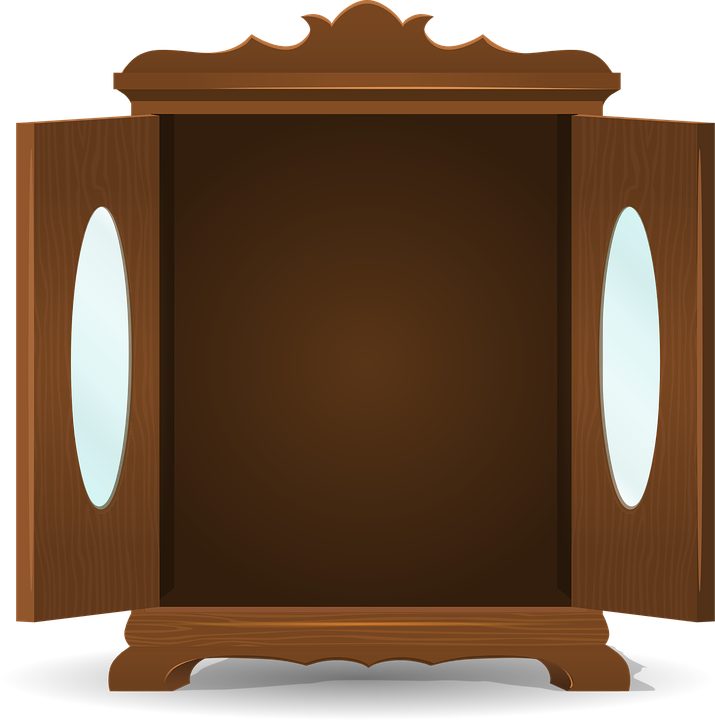
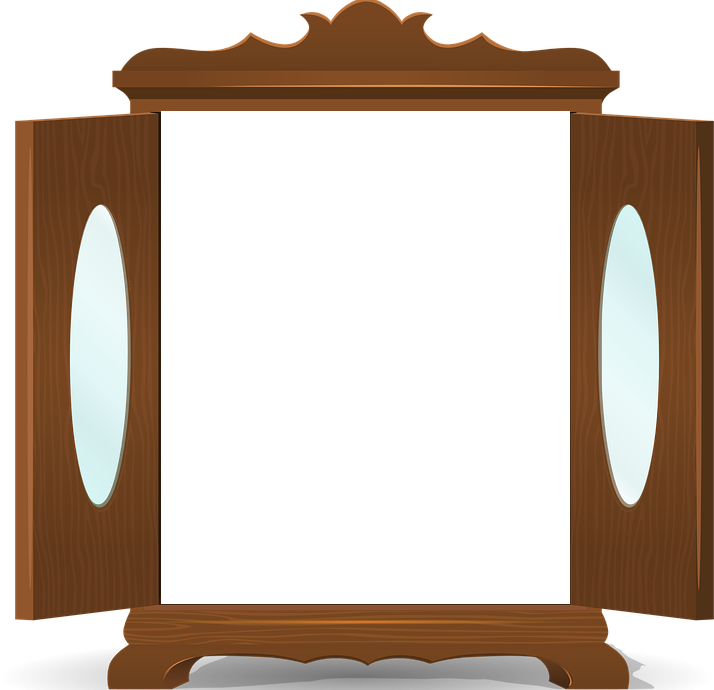
images

diff --git a/src/components/Game.js b/src/components/Game.js
@@ -6,10 +6,10 @@ import grogu from "../images/yoda.jpg";
 import dado_juego from "../images/dado_pres.png";
 import galleta_azul from "../images/galleta.jpg";
 import huevo_blanco from "../images/huevo.jpg";
-import rana_verde from "../images/rana.jpg";
-import vasija from "../images/vasija.jpg";
+import rana_verde from "../images/rana.png";
+import vasija from "../images/vasija.png";
 import App from "./App";
-import armario from "../images/armario.png";
+import armario from "../images/armario2.png";
 
 const Game = () => {
   /////////////////////////////////////////VARIABLES DE ESTADO/////////////////////////////////////////////////////////////////////////////////

diff --git a/src/styles/core/mixins.scss b/src/styles/core/mixins.scss
@@ -18,7 +18,7 @@
   margin-top: 300px;
 }
 @mixin images {
-  width: 30px;
-  height: 30px;
+  width: 70px;
+  height: 70px;
   z-index: 1;
 }
